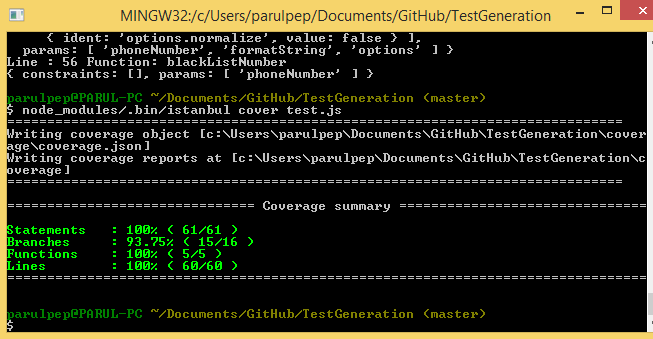
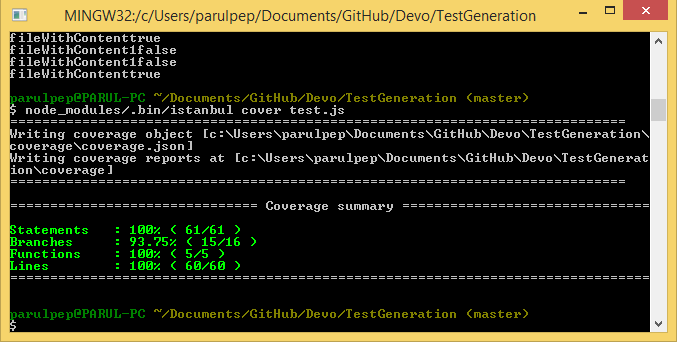
Image added

Changed region(s): [[0.0, 0.0, 1.0, 1.0], [0.9801, 0.0, 1.0, 0.059], [0.0, 0.0295, 0.0613, 0.059]]

diff --git a/TestGeneration/test.js b/TestGeneration/test.js
@@ -17,11 +17,11 @@ mock({"pathContent":{"file1":"text content"}});
 mock.restore();
 subject.normalize('');
 subject.normalize('(212) 234-5644');
-subject.normalize('244-724-9947');
+subject.normalize('636-018-4905');
 subject.format('','',false);
-subject.format('566-844-8121','###.###.####',{normalize:true});
-subject.format('566-844-8121','###.###.####',{normalize:false});
-subject.format('566-844-8121','###.###.####',false);
+subject.format('590-907-4026','(###) ###-####',{normalize:true});
+subject.format('590-907-4026','(###) ###-####',{normalize:false});
+subject.format('590-907-4026','(###) ###-####',false);
 subject.blackListNumber('');
 subject.blackListNumber('(212) 234-5644');
-subject.blackListNumber('299-998-8249');
+subject.blackListNumber('458-902-6294');
